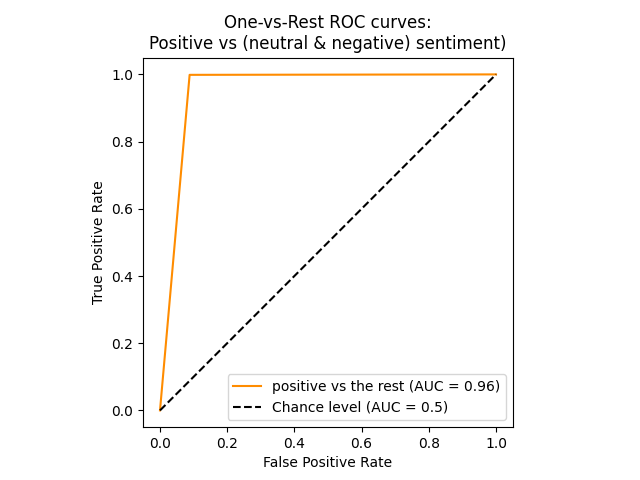
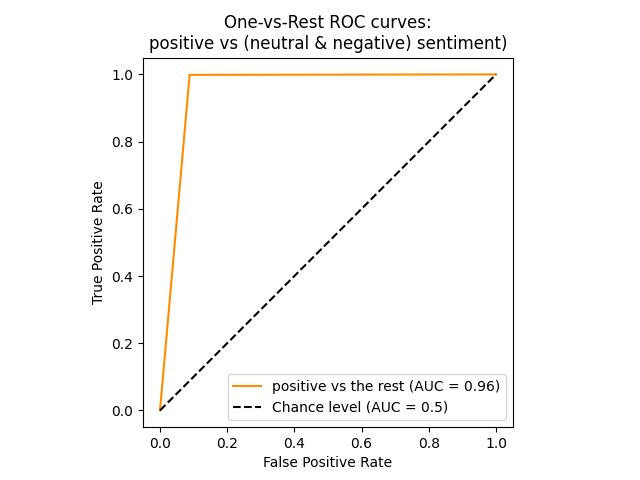
done.

Changed region(s): [[0.2188, 0.0625, 0.8125, 0.125]]

diff --git a/multilabel_sentiment_analysis.py b/multilabel_sentiment_analysis.py
@@ -56,7 +56,7 @@ RocCurveDisplay.from_predictions(
 plt.axis("square")
 plt.xlabel("False Positive Rate")
 plt.ylabel("True Positive Rate")
-plt.title("One-vs-Rest ROC curves:\nPositive vs (neutral & negative) sentiment)")
+plt.title(f"One-vs-Rest ROC curves:\n{class_of_interest} vs (neutral & negative) sentiment)")
 plt.legend()
 # plt.show()
 plt.savefig(f"graphs/multilabel_{class_id}_roc_curve.png")
